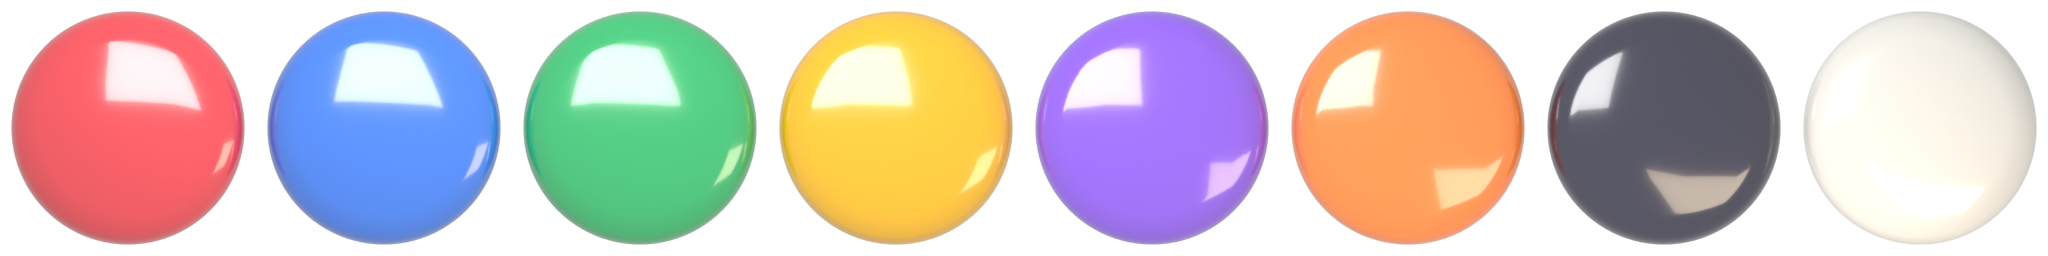
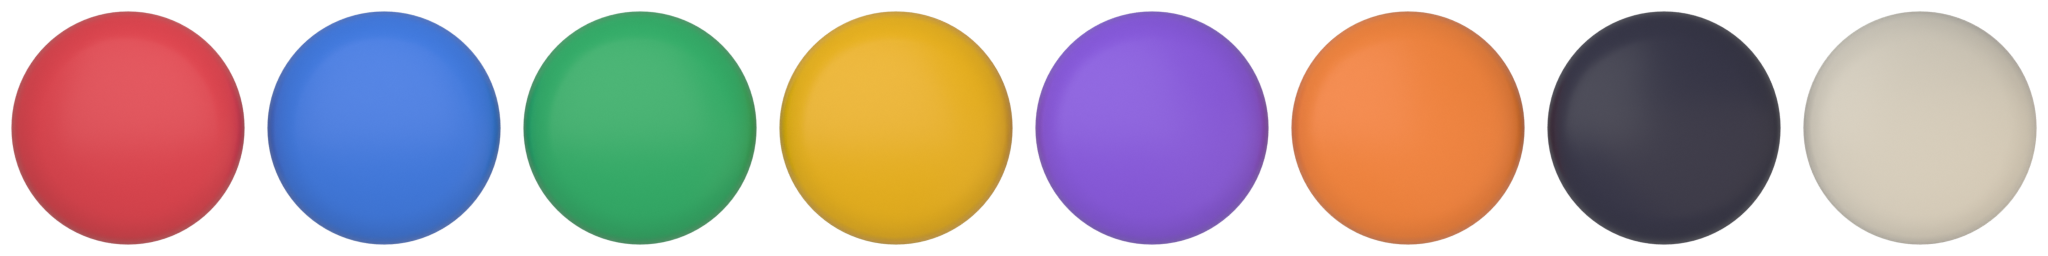
九子棋棋子改成緞面質感,降低反光

diff --git a/tools/morris_scene.py b/tools/morris_scene.py
@@ -7,7 +7,7 @@ import bpy, bmesh, math, sys, os
 
 argv = sys.argv[sys.argv.index('--') + 1:] if '--' in sys.argv else []
 OUT = argv[0] if argv else os.getcwd()
-COLORS = ['#e8444f', '#3f7de8', '#2fb36b', '#f2b800', '#8c5be8', '#ff8a3d', '#34344a', '#f4f1ea']
+COLORS = ['#e8444f', '#3f7de8', '#2fb36b', '#f2b800', '#8c5be8', '#ff8a3d', '#34344a', '#e2ddd0']
 XY = [(0, 0), (3, 0), (6, 0), (1, 1), (3, 1), (5, 1), (2, 2), (3, 2), (4, 2), (0, 3), (1, 3), (2, 3), (4, 3), (5, 3), (6, 3), (2, 4), (3, 4), (4, 4), (1, 5), (3, 5), (5, 5), (0, 6), (3, 6), (6, 6)]
 S = 10.0  # 棋盤邊長(單位),整張圖就是這個範圍
 
@@ -163,7 +163,7 @@ render(os.path.join(OUT, 'morris_board.png'), 1024, 1024)
 
 # ================= 2) 棋子(8 顆寶石棋子排成一列) =================
 sc = reset()
-world(0.6, '#ffffff')
+world(0.45, '#ffffff')
 
 
 def lathe(name, prof, segs=96):
@@ -195,15 +195,15 @@ for i, hexc in enumerate(COLORS):
     m.use_nodes = True
     p = m.node_tree.nodes.get('Principled BSDF')
     p.inputs['Base Color'].default_value = (*hexrgb(hexc), 1)
-    p.inputs['Roughness'].default_value = 0.16
-    p.inputs['Coat Weight'].default_value = 1.0
-    p.inputs['Coat Roughness'].default_value = 0.05
+    p.inputs['Roughness'].default_value = 0.34
+    p.inputs['Coat Weight'].default_value = 0.18
+    p.inputs['Coat Roughness'].default_value = 0.3
     p.inputs['Subsurface Weight'].default_value = 0.15
     p.inputs['Subsurface Radius'].default_value = (0.25, 0.25, 0.25)
-    p.inputs['Specular IOR Level'].default_value = 0.8
+    p.inputs['Specular IOR Level'].default_value = 0.25
     o.data.materials.append(m)
-area((-3, 4, 8), (math.radians(20), math.radians(-15), 0), 6, 900, '#ffffff')
-area((5, -3, 4), (math.radians(-30), math.radians(35), 0), 4, 240, '#ffe8c8')
+area((-3, 4, 8), (math.radians(20), math.radians(-15), 0), 10, 520, '#ffffff')
+area((5, -3, 4), (math.radians(-30), math.radians(35), 0), 8, 100, '#ffe8c8')
 # 8 顆排成一列:相機照整排,每顆佔 256 像素
 bpy.ops.object.camera_add(location=(0, 0, 20), rotation=(0, 0, 0))
 cam = bpy.context.object
